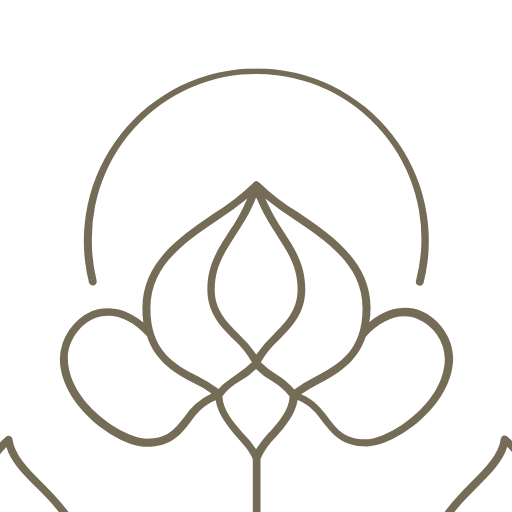
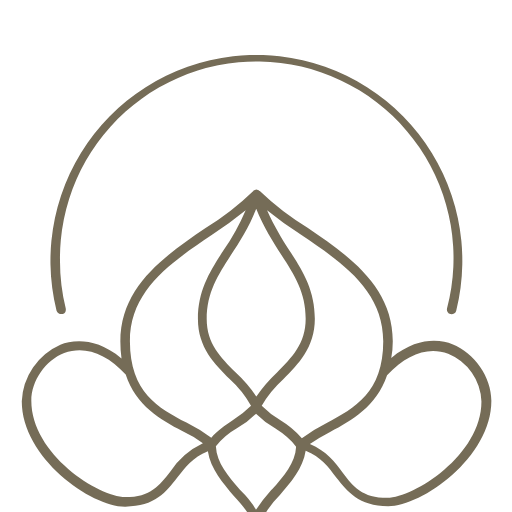
fix: clean iris mark crop; add scroll-to-reveal cue on hero
- logo-mark/icon: clipped crop (bottom corners cut) removes stray
  fragments of neighboring ornaments that made the navbar mark look
  broken/misaligned
- Hero shows 'Scroll to reveal' cue after the paper intro lifts;
  scrubbed fade kills it within the first ~2% of the pinned scroll

diff --git a/components/sections/LuxeHero.tsx b/components/sections/LuxeHero.tsx
@@ -31,6 +31,7 @@ export default function LuxeHero() {
   const ruleRef = useRef<HTMLDivElement>(null);
   const subRef = useRef<HTMLParagraphElement>(null);
   const veilRef = useRef<HTMLDivElement>(null);
+  const hintRef = useRef<HTMLDivElement>(null);
   const [reducedMotion, setReducedMotion] = useState(false);
 
   useEffect(() => {
@@ -105,6 +106,9 @@ export default function LuxeHero() {
 
       // Stage 4 — cream veil melts the film into the gallery beneath
       tl.to(veilRef.current, { opacity: 1, duration: 0.18 }, 0.82);
+
+      // The scroll cue dies the instant the visitor starts scrolling
+      tl.to(hintRef.current, { opacity: 0, duration: 0.03, ease: "none" }, 0.004);
     }, section);
 
     // Silky video scrub: ease currentTime toward the scroll target each tick
@@ -180,6 +184,15 @@ export default function LuxeHero() {
           Handcrafted by Ashrat&ensp;·&ensp;Every Piece a Signature
         </p>
       </div>
+
+      {!reducedMotion && (
+        <div ref={hintRef} className={styles.scrollHint} aria-hidden="true">
+          <div className={styles.scrollHintInner}>
+            <span>Scroll to reveal</span>
+            <i />
+          </div>
+        </div>
+      )}
 
       <div ref={veilRef} className={styles.veil} aria-hidden="true" />
     </section>

diff --git a/components/sections/luxe-hero.module.css b/components/sections/luxe-hero.module.css
@@ -134,6 +134,62 @@
   color: var(--umber);
 }
 
+/* ---------- scroll cue ----------
+   Outer div: scroll-driven fade (GSAP kills it on the first nudge).
+   Inner div: its own delayed entrance, so the two opacities never fight. */
+.scrollHint {
+  position: absolute;
+  bottom: 30px;
+  left: 50%;
+  transform: translateX(-50%);
+  z-index: 2;
+  pointer-events: none;
+}
+
+.scrollHintInner {
+  text-align: center;
+  color: var(--umber);
+  font-family: var(--font-serif, "Cormorant Garamond", Georgia, serif);
+  font-style: italic;
+  font-size: 0.78rem;
+  letter-spacing: 0.3em;
+  text-transform: uppercase;
+  /* appears only after the paper sheet has lifted */
+  animation: hintIn 0.9s ease 2.6s both;
+}
+
+@keyframes hintIn {
+  from {
+    opacity: 0;
+    transform: translateY(10px);
+  }
+  to {
+    opacity: 1;
+    transform: none;
+  }
+}
+
+.scrollHintInner i {
+  display: block;
+  width: 1px;
+  height: 42px;
+  margin: 12px auto 0;
+  background: var(--umber);
+  animation: hintPulse 2.4s var(--ease-luxe) infinite;
+}
+
+@keyframes hintPulse {
+  0%,
+  100% {
+    transform: scaleY(0.35);
+    transform-origin: top;
+  }
+  50% {
+    transform: scaleY(1);
+    transform-origin: top;
+  }
+}
+
 /* ---------- exit veil ---------- */
 .veil {
   position: absolute;
